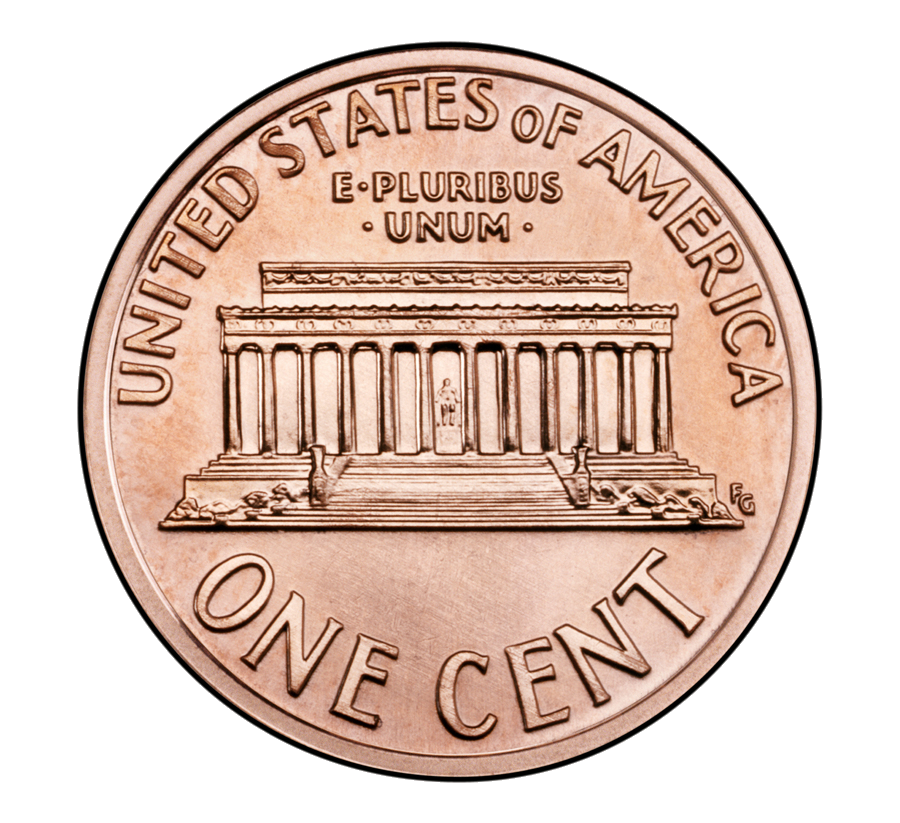
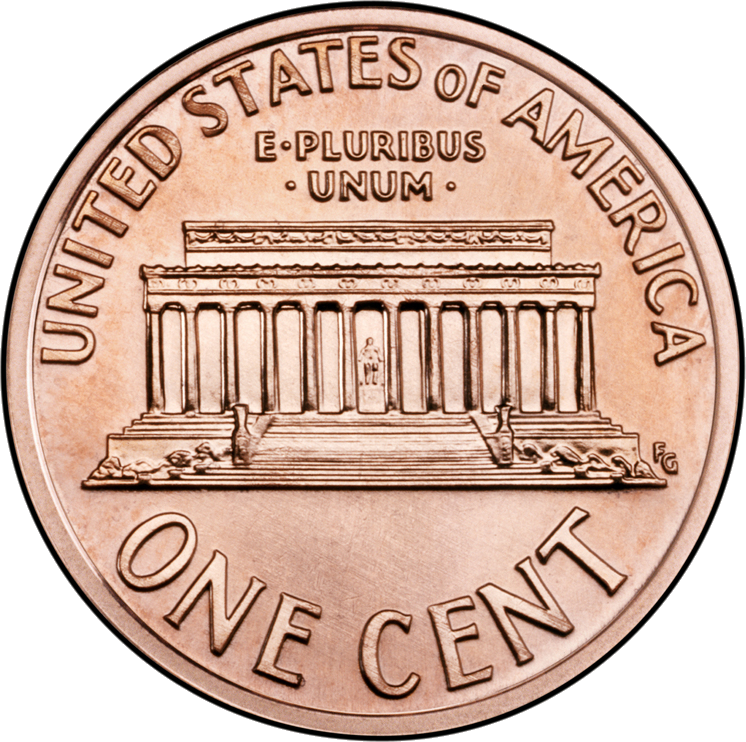
Improve Cross-Entropy widget layout and positioning
- Move red trigger line to center of top canvas (width/2)
- Add object-contain to coin images for proper centering after crop
- Move heads/tails labels to right side, consistent with cross-entropy label
- Remove mathematical formula from legend for cleaner appearance
- Add overflow-hidden to prevent coins from showing outside canvas
- Crop all coin images to remove transparent padding

🤖 Generated with [Claude Code](https://claude.ai/code)

diff --git a/components/widgets/CoinFlipWidget.tsx b/components/widgets/CoinFlipWidget.tsx
@@ -77,7 +77,7 @@ export default function CrossEntropyWidget({
   const GRAPH_HEIGHT = 200;                // Height of bottom graph area
   const GRAPH_WIDTH = 400;                 // Width of bottom graph area
   const COIN_SPACING = 100;                // Consistent spacing between coins
-  const TRIGGER_POSITION = CANVAS_WIDTH / 3;   // Where coins trigger bottom canvas
+  const TRIGGER_POSITION = CANVAS_WIDTH / 2;   // Where coins trigger bottom canvas (center)
   
   // ====================================================================
   // SIMPLIFIED LOGIC
@@ -172,7 +172,8 @@ export default function CrossEntropyWidget({
             // Only show if within max height
             if (surprise <= maxSurprise) {
               const centerX = GRAPH_WIDTH / 2;
-              const screenY = Math.max(12, Math.min(GRAPH_HEIGHT - 12, GRAPH_HEIGHT - (surprise / maxSurprise) * GRAPH_HEIGHT));
+              // Calculate Y position - same as SVG lines
+              const screenY = GRAPH_HEIGHT - (surprise / maxSurprise) * GRAPH_HEIGHT;
               
               const bottomCoin: BottomCoin = {
                 id: coin.id,
@@ -375,13 +376,13 @@ export default function CrossEntropyWidget({
                 <img 
                   src="/problens-web/images/coin_heads_small.png" 
                   alt="Heads" 
-                  className="w-full h-full"
+                  className="w-full h-full object-contain"
                 />
               ) : (
                 <img 
                   src="/problens-web/images/coin_tail_small.png" 
                   alt="Tails" 
-                  className="w-full h-full"
+                  className="w-full h-full object-contain"
                 />
               )}
             </div>
@@ -391,7 +392,7 @@ export default function CrossEntropyWidget({
 
       {/* Bottom Graph */}
       <div className="bg-gray-100 rounded-lg p-4">
-        <div className="bg-white rounded border-2 border-gray-300 relative" 
+        <div className="bg-white rounded border-2 border-gray-300 relative overflow-hidden" 
              style={{ width: GRAPH_WIDTH, height: GRAPH_HEIGHT, margin: '0 auto' }}>
           
           <svg width={GRAPH_WIDTH} height={GRAPH_HEIGHT} className="absolute inset-0">
@@ -463,9 +464,9 @@ export default function CrossEntropyWidget({
                           strokeDasharray="3,3"
                         />
                         <text 
-                          x={10} 
+                          x={GRAPH_WIDTH - 120} 
                           y={GRAPH_HEIGHT - (headsSurprise / maxSurprise) * GRAPH_HEIGHT - 5} 
-                          fontSize="11" 
+                          fontSize="12" 
                           fill="#4CAF50"
                         >
                           Heads: {headsSurprise.toFixed(2)}
@@ -492,9 +493,9 @@ export default function CrossEntropyWidget({
                           strokeDasharray="3,3"
                         />
                         <text 
-                          x={10} 
-                          y={GRAPH_HEIGHT - (tailsSurprise / maxSurprise) * GRAPH_HEIGHT + 15} 
-                          fontSize="11" 
+                          x={GRAPH_WIDTH - 120} 
+                          y={GRAPH_HEIGHT - (tailsSurprise / maxSurprise) * GRAPH_HEIGHT - 5} 
+                          fontSize="12" 
                           fill="#2196F3"
                         >
                           Tails: {tailsSurprise.toFixed(2)}
@@ -520,32 +521,31 @@ export default function CrossEntropyWidget({
           </svg>
           
           {/* Bottom canvas coins */}
-          {bottomCoins.map(coin => (
-            <div
-              key={`bottom-${coin.id}`}
-              className="absolute"
-              style={{
-                left: coin.x - 12,
-                top: coin.y - 12,
-                width: 24,
-                height: 24,
-              }}
-            >
-              <img 
-                src={coin.isHeads ? "/problens-web/images/coin_heads_small.png" : "/problens-web/images/coin_tail_small.png"}
-                alt={coin.isHeads ? "Heads" : "Tails"}
-                className="w-full h-full"
-              />
-            </div>
-          ))}
+          {bottomCoins.map(coin => {
+            return (
+              <div
+                key={`bottom-${coin.id}`}
+                className="absolute"
+                style={{
+                  left: coin.x - 12,
+                  top: coin.y - 12,
+                  width: 24,
+                  height: 24,
+                }}
+              >
+                <img 
+                  src={coin.isHeads ? "/problens-web/images/coin_heads_small.png" : "/problens-web/images/coin_tail_small.png"}
+                  alt={coin.isHeads ? "Heads" : "Tails"}
+                  className="w-full h-full object-contain"
+                />
+              </div>
+            );
+          })}
         </div>
         
         {/* Legend */}
         <div className="mt-3 text-sm text-gray-600 text-center">
           <div className="flex justify-center gap-4 flex-wrap">
-            <div className="flex items-center gap-2">
-              <span>Surprise: <KatexMath math="\log_2\left(\frac{1}{q}\right)" /> for heads, <KatexMath math="\log_2\left(\frac{1}{1-q}\right)" /> for tails</span>
-            </div>
             <div className="flex items-center gap-2">
               <div className="w-4 h-0.5 bg-green-500 border-dashed border-t-2"></div>
               <span>Heads surprisal</span>
